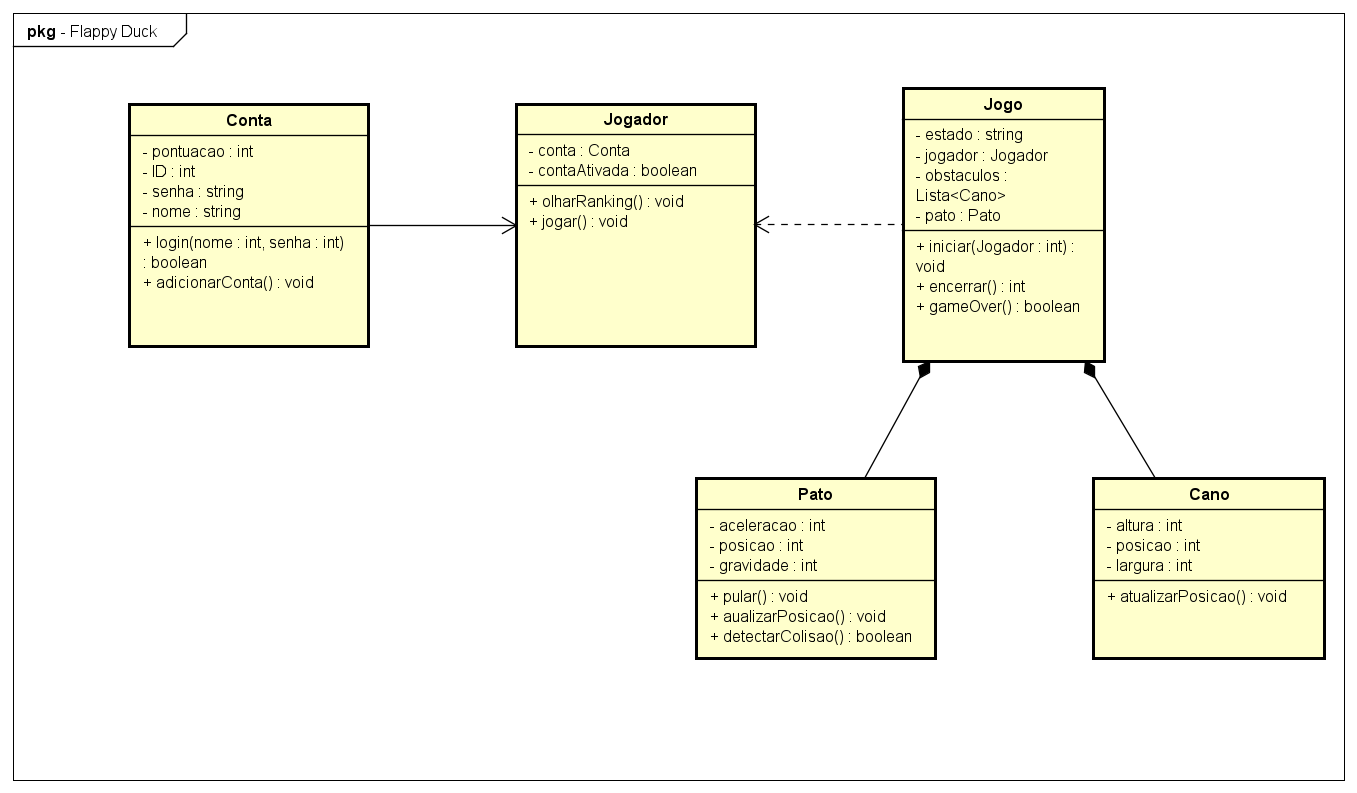
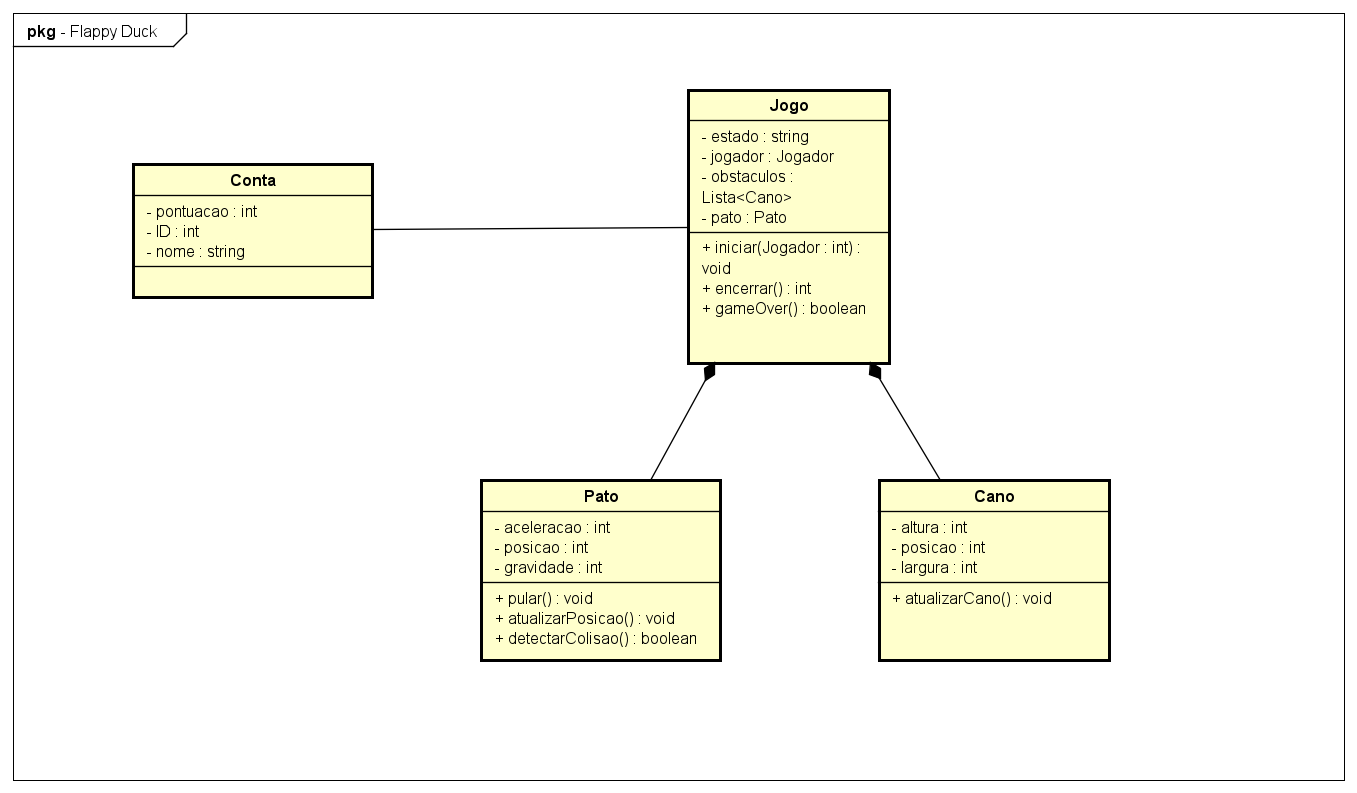
Atualizar arquivos: melhorias no código, documentação e imagens em PNG

Changed region(s): [[0.0929, 0.0908, 0.8357, 0.5448], [0.3405, 0.575, 0.9904, 0.8474]]

diff --git a/src/controllers/apiScoreController.js b/src/controllers/apiScoreController.js
@@ -1,1 +1,20 @@
 // logica da api para salvar score do usuario
+
+const { saveScore, getUserById } = require("../models/userModel");
+
+export async function save(req, res) {
+
+    const {id_user, newScore} = req.body;
+
+    const user = await getUserById(id_user);
+
+    if (newScore > user.score) {
+        
+        await saveScore(id_user, newScore);
+
+        return res.status(200).json({ message: "Pontuação salva com sucesso" });
+    } else {
+        return res.status(200).json({ message: "Pontuação não atualizada, nova pontuação é menor que a atual" });
+    }
+
+}

diff --git a/src/models/userModel.js b/src/models/userModel.js
@@ -5,6 +5,11 @@ export async function findUserByEmail(email) {
     // pegar os dados do usuario do banco de dados usando o email
 }
 
+export async function getUserById(id) {
+
+    // pegar os dados do usuario do banco de dados usando o id
+}
+
 export async function createUser(username, email, password) {
 
     // criar um novo usuario no banco de dados

diff --git a/usar depois/Flappy_Duck2/classes/Cano.js b/usar depois/Flappy_Duck2/classes/Cano.js
@@ -28,13 +28,13 @@ class Cano {
             ) + 60;
     }
 
-    atualizarPosicao(velocidade) {
+    atualizarCano(velocidade) {
 
         this.x -= velocidade;
     }
 
     atualizar(velocidade) {
-        this.atualizarPosicao(velocidade);
+        this.atualizarCano(velocidade);
     }
 
     desenhar(ctx) {

diff --git a/src/routes/apiScoreRoutes.js b/src/routes/apiScoreRoutes.js
@@ -1,1 +1,12 @@
 // rota  da api de atualizar a pontuação do usuario
+
+const express = require("express");
+const router = express.Router();
+
+const { 
+    save
+    } = require("../controllers/apiScoreController");
+
+router.post("/save", save);
+
+module.exports = router;

diff --git a/app.js b/app.js
@@ -18,6 +18,6 @@ app.use(express.static(path.join(__dirname, "src")));
 app.use("/", indexRoutes);
 app.use("/auth", authRoutes);
 app.use("/ranking", rankingRoutes);
-app.use("/score", scoreRoutes);
+app.use("/save", scoreRoutes);
 
 module.exports = app;

diff --git a/src/routes/apiRankingRoutes.js b/src/routes/apiRankingRoutes.js
@@ -1,1 +1,1 @@
-// rota de pegar ranking da api
+// rota de api pegar ranking

diff --git a/README.md b/README.md
@@ -13,7 +13,7 @@
 
 > Nosso projeto tem como intuito criar um jogo divertido, inspirado no flappy bird, a fim de proporcionar entretenimento para os jogadores além de botar em pratica os conhecimentos adquiridos em aula. O jogo se trata em passar com o personagem (Pato) pelo máximo de obstaculos possiveis. Ele consta também com as opções de criar uma conta onde ficará registrada a pontuação em um banco de dados, mostrar Ranking onde exibira a pontuação de todos os jogadores, e "jogar" para iniciar o jogo. 
 
-![Casos de Uso](docs_Images\CasosDeUso-FlappyDuck.jpeg)
+![Casos de Uso](docs_Images\CasosDeUso-FlappyDuck.png)
 ![Diagrama de Classes](docs_Images\Classes-Flappy-Duck.png)
 ---
 
